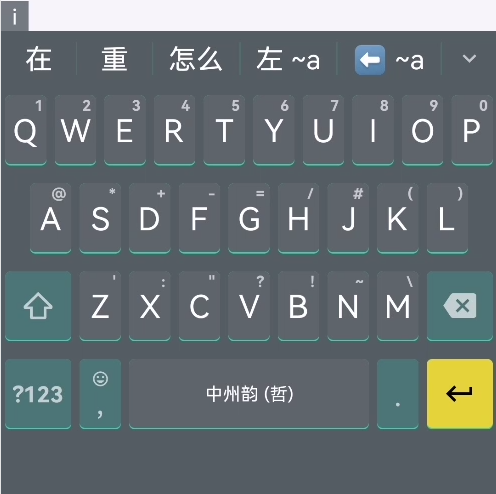
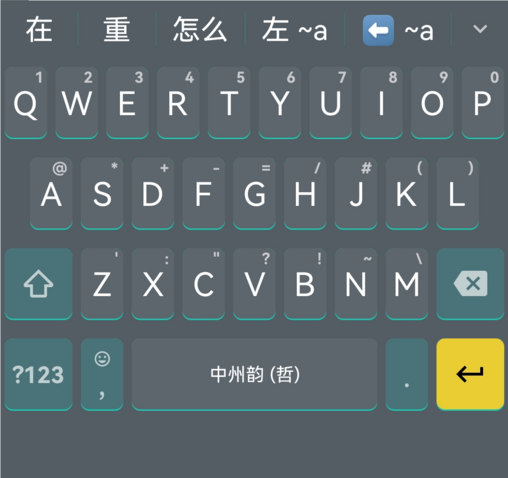
20240605-101123:增加几个配色。

diff --git a/README.MD b/README.MD
@@ -4,6 +4,8 @@
 小企鹅主题设计网址： https://fcitx5-android.github.io/theme-designer/  
 当然不是原创了，都是随手找来的主题，如果**版权有争议，烦请告知，必删除**。
 
+[TOC]
+
 **说明：**
 1. 我选择主题喜欢带边框，虽然也尽量考虑到了不带边框的效果，但仍以带框效果优先。  
 2. 由于主题设计网站本身的功能缺失，长按键盘的弹出颜色可能没有调对，不过已经都检查过一遍，不会影响正常使用。
@@ -46,3 +48,43 @@
 ### 6. 搜狗·sogou_skin3
 
 ![](sogou_skin3.png)
+
+### 7. 红黄蓝
+
+![](红黄蓝.png)
+
+### 8. cyberpunk2024
+
+![](cyberpunk2024.png)
+
+### 9. mintWhite
+
+![](mintWhite.png)
+
+### 10. Calc 系列
+
+#### Calc2 
+
+![](Calc2.png)
+
+#### Calc3 
+
+![](Calc3.png)
+
+#### Calc4 
+
+![](Calc4.png)
+
+### 11. baiduDark
+
+![](baiduDark.png)
+
+### 12. goinput
+
+![](GoInput.png)
+
+### 13. Greysilver
+
+![](GreySilver.png)
+
+
